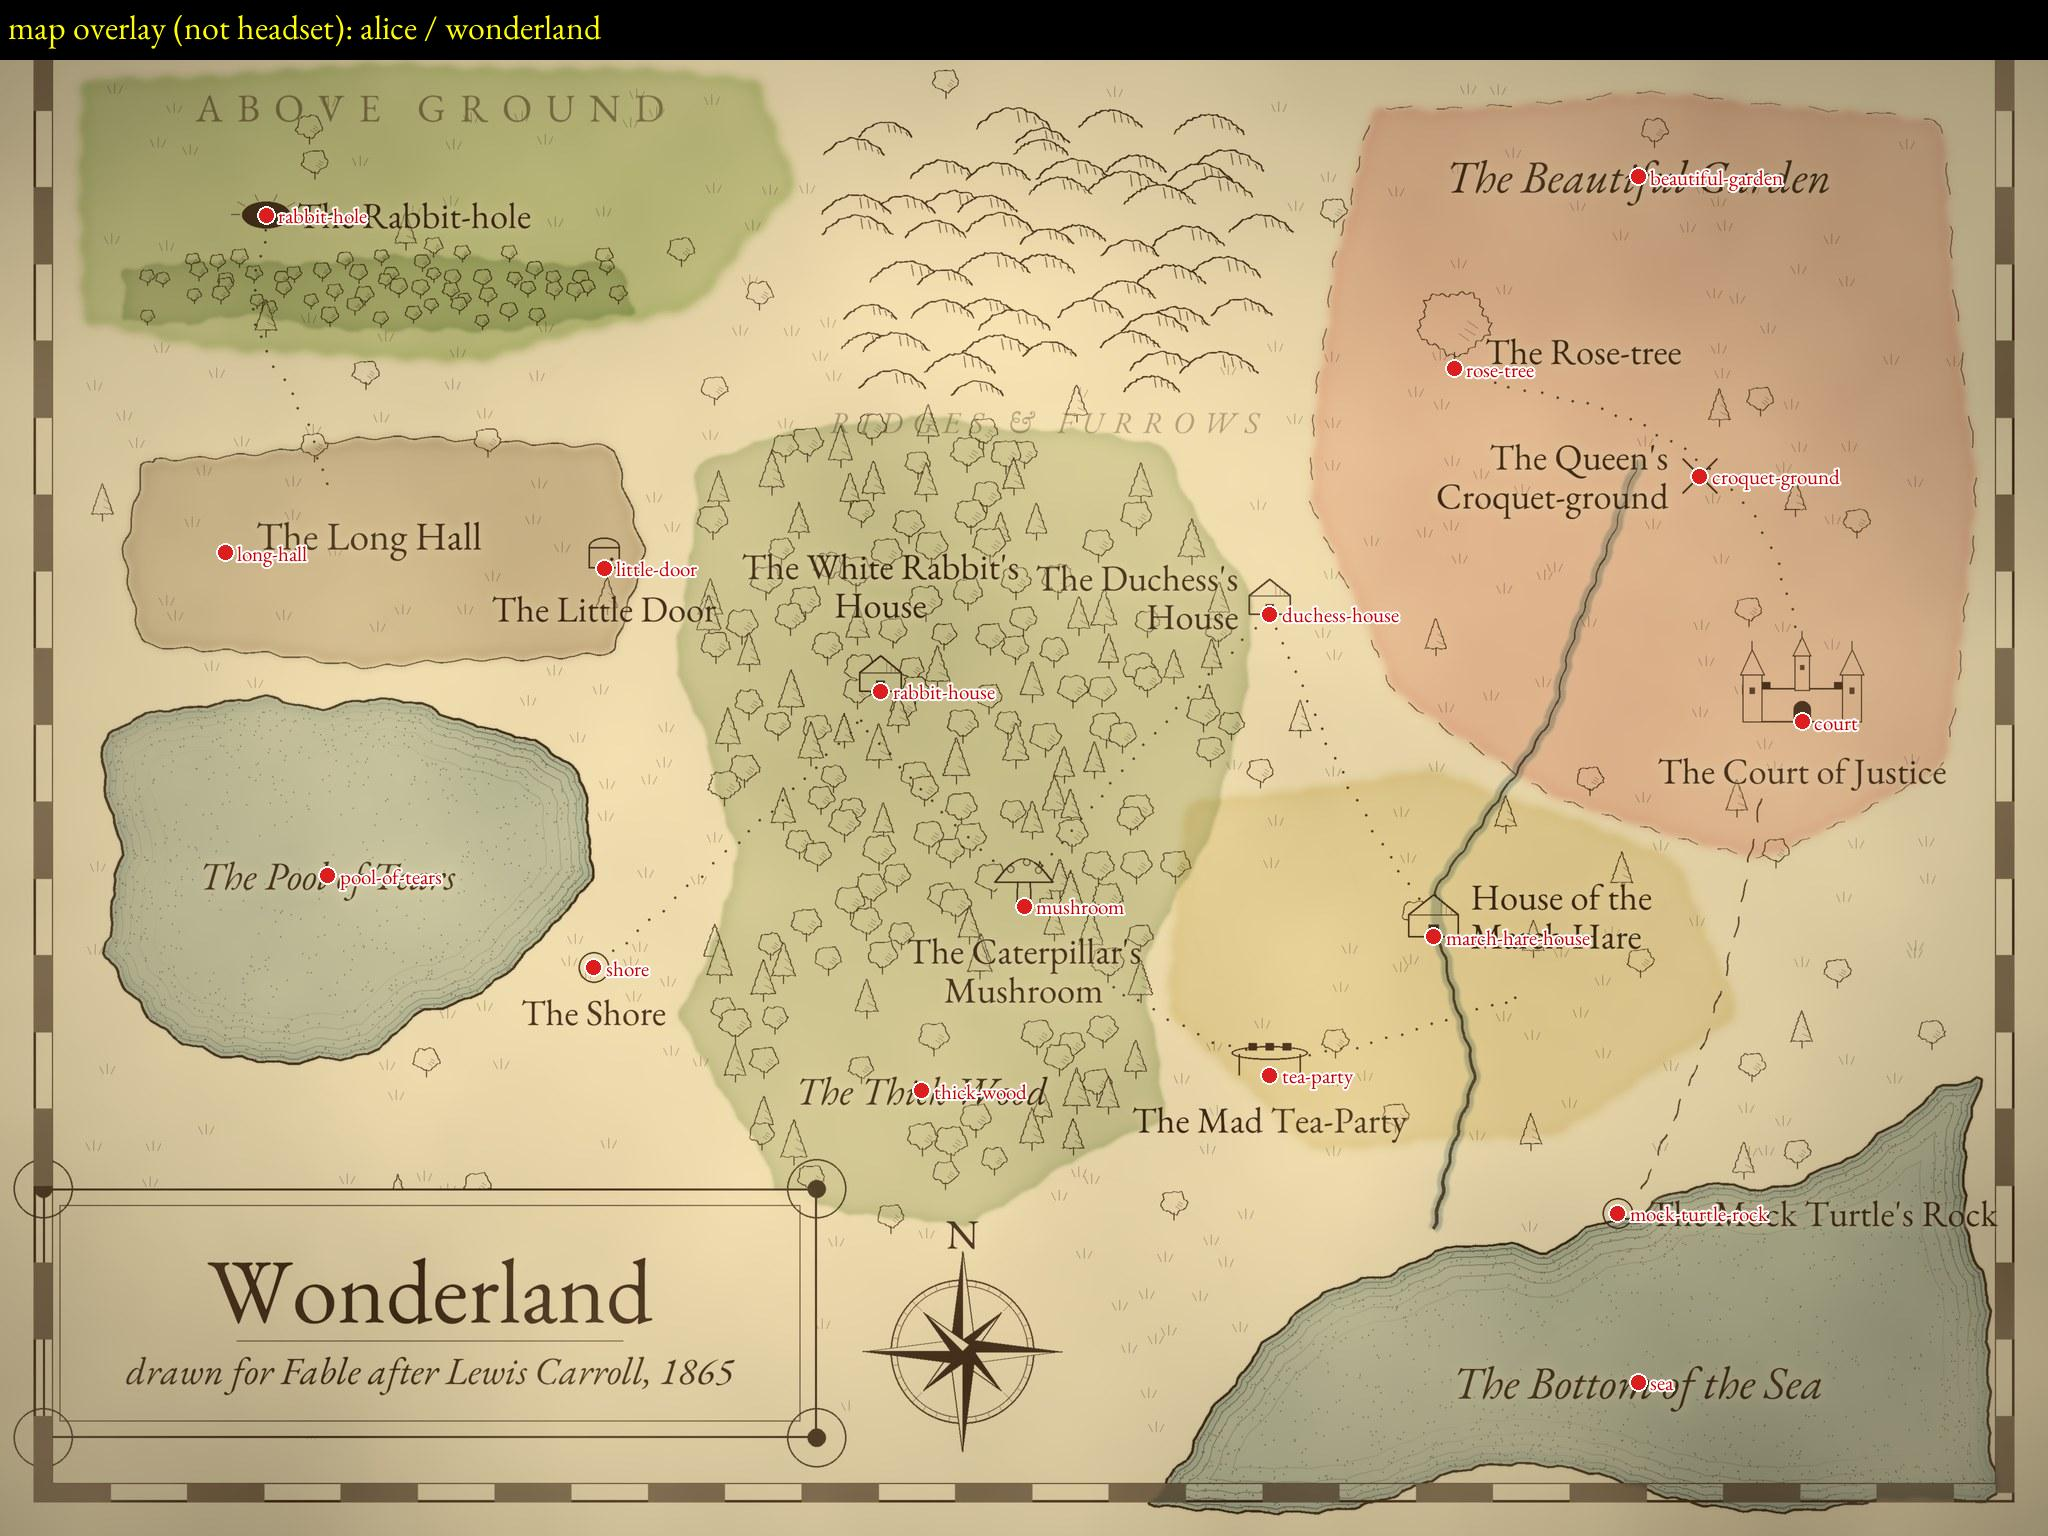
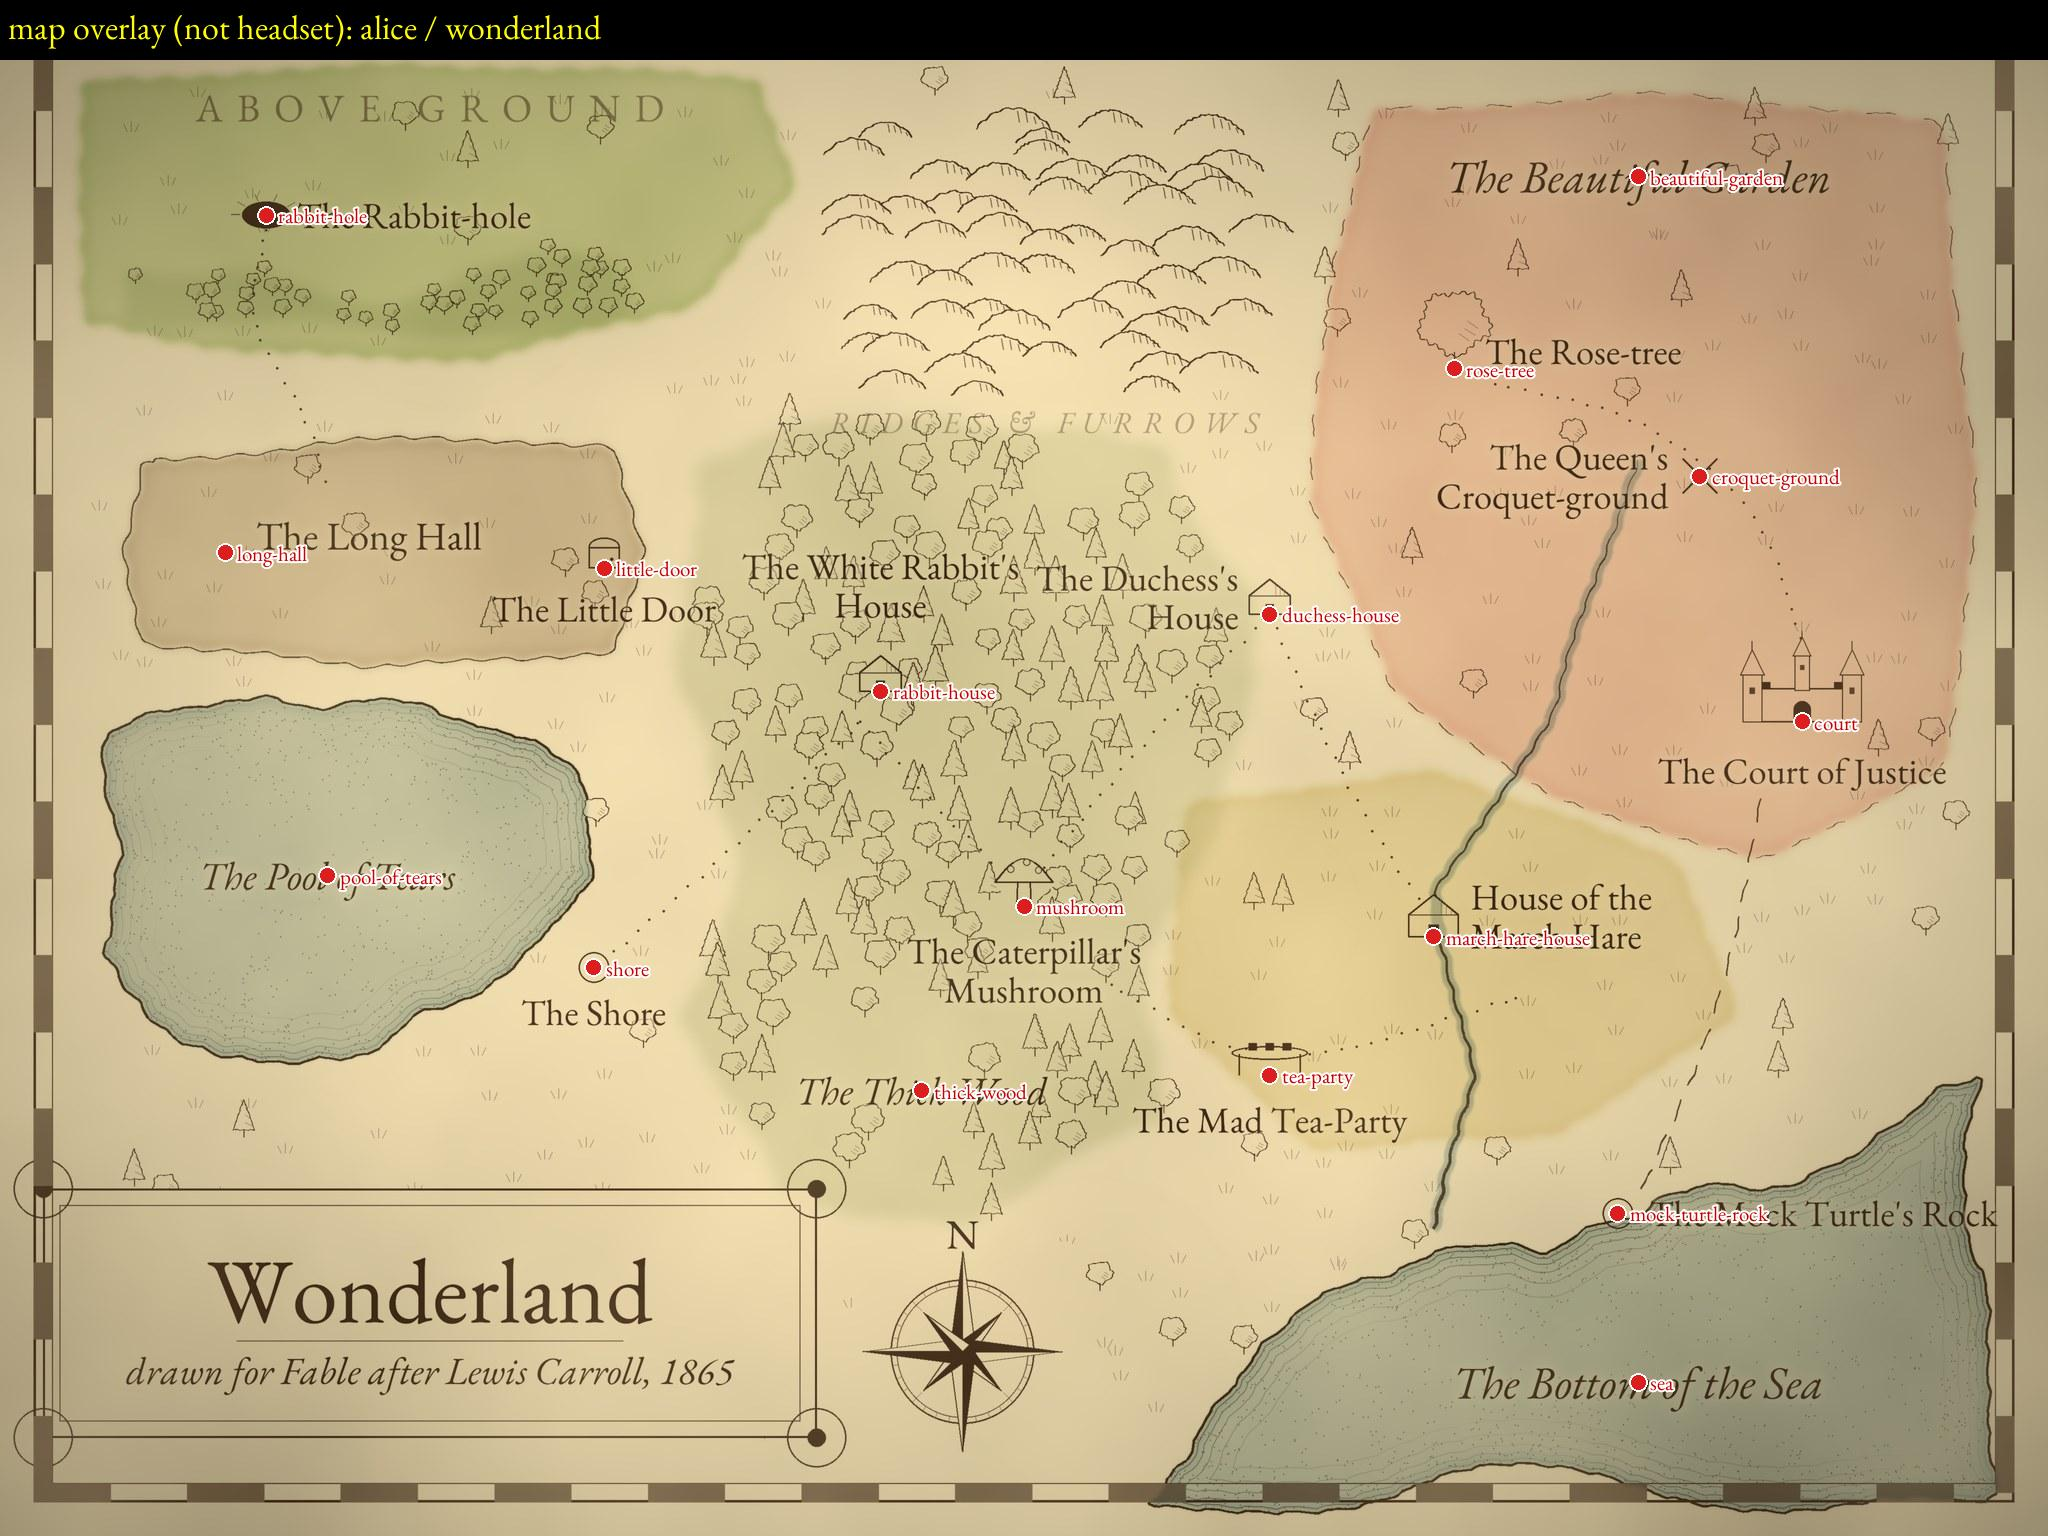
draw_map.py: desert rings, per-region smoothing, softer forest washes, gentler height maps; Alice re-rendered

diff --git a/tools/draw_map.py b/tools/draw_map.py
@@ -21,10 +21,11 @@ the image height (so they look the same at any resolution). Every key except "si
   "background": "sea" | "land",  what lies outside the "land" polygons (default "land": the whole sheet is land)
   "palette": {"paper": "#e9d8ac", "ink": "#3a2716", "sea": "#9fb2a6", "land": "#e2cf9a"},   optional overrides
   "land":    [{"poly": [[u,v],...], "rough": 0.5}],             coastlines (closed); rough 0..1 = fractal detail
-  "regions": [{"poly": [...], "tint": "#7a9a5a", "border": "dashed"|"solid"|"none", "rough": 0.2}],
+  "regions": [{"poly": [...], "tint": "#7a9a5a", "border": "dashed"|"solid"|"none", "rough": 0.2, "alpha": 0.45,
+               "smooth": 3}],                                     smooth = corner-rounding passes (0 keeps shared edges exact)
                                                                   watercolour washes (countries, gardens)
   "water":   [{"poly": [...], "rough": 0.3}],                     lakes and pools, drawn like the sea
-  "deserts": [{"poly": [...]}],                                   stippled sand
+  "deserts": [{"poly": [...], "hole": [[u,v],...]}],              stippled sand (an optional hole: a ring of desert)
   "fields":  [{"poly": [...], "glyph": "flower"|"grass"|"crop", "color": "#b03020"}],
   "forests": [{"poly": [...], "density": 1.0, "kind": "round"|"pine"|"mixed"}],
   "hills":   [{"poly": [...], "density": 1.0}],                    hachured hillocks
@@ -287,7 +288,7 @@ class Painter:
 
     def regions(self):
         for it in self.L.get("regions", []):
-            pts = self.shape_pts(it, True, 0.1, smooth=3)
+            pts = self.shape_pts(it, True, 0.1, smooth=it.get("smooth", 3))
             m = poly_mask((self.h, self.w), pts) & self.landmask
             self.wash(m, hexrgb(it.get("tint", "#8a9a5a")), it.get("alpha", 0.45), edge=0.6, blur=4)
             b = it.get("border", "dashed")
@@ -303,6 +304,8 @@ class Painter:
         for it in self.L.get("deserts", []):
             pts = self.shape_pts(it, True, 0.2)
             m = poly_mask((self.h, self.w), pts) & self.landmask
+            if it.get("hole"):
+                m &= ~poly_mask((self.h, self.w), self.shape_pts({"poly": it["hole"], "rough": it.get("rough", 0.3)}, True))
             self.wash(m, hexrgb(it.get("tint", "#d9b877")), 0.3)
             dots = (self.rng.random(m.shape) < 0.004) & m
             dots = ndimage.binary_dilation(dots, iterations=1)
@@ -445,9 +448,9 @@ class Painter:
 
     def forests(self):
         for it in self.L.get("forests", []):
-            pts = self.shape_pts(it, True, 0.3)
+            pts = self.shape_pts(it, True, 0.45)
             m = poly_mask((self.h, self.w), pts) & self.landmask & ~self.watermask
-            self.wash(m, hexrgb(it.get("tint", "#6f8a4a")), 0.25, edge=0.5)
+            self.wash(m, hexrgb(it.get("tint", "#6f8a4a")), 0.16, edge=0.15, blur=7)
             sp = self.U(0.03) / it.get("density", 1.0)
             kind = it.get("kind", "round")
             for (x, y) in self.scatter(m, sp, 0.45):
@@ -895,7 +898,7 @@ class Painter:
         im = Image.fromarray((np.clip(hgt, 0, 1) * 255).astype(np.uint8))
         sc = 1024 / max(self.W, self.H)
         im = im.resize((max(1, round(self.W * sc)), max(1, round(self.H * sc))), Image.BILINEAR)
-        return im.filter(ImageFilter.GaussianBlur(3))
+        return im.filter(ImageFilter.GaussianBlur(12))
 
 
 # ----------------------------------------------------------------------------- debug overlay
